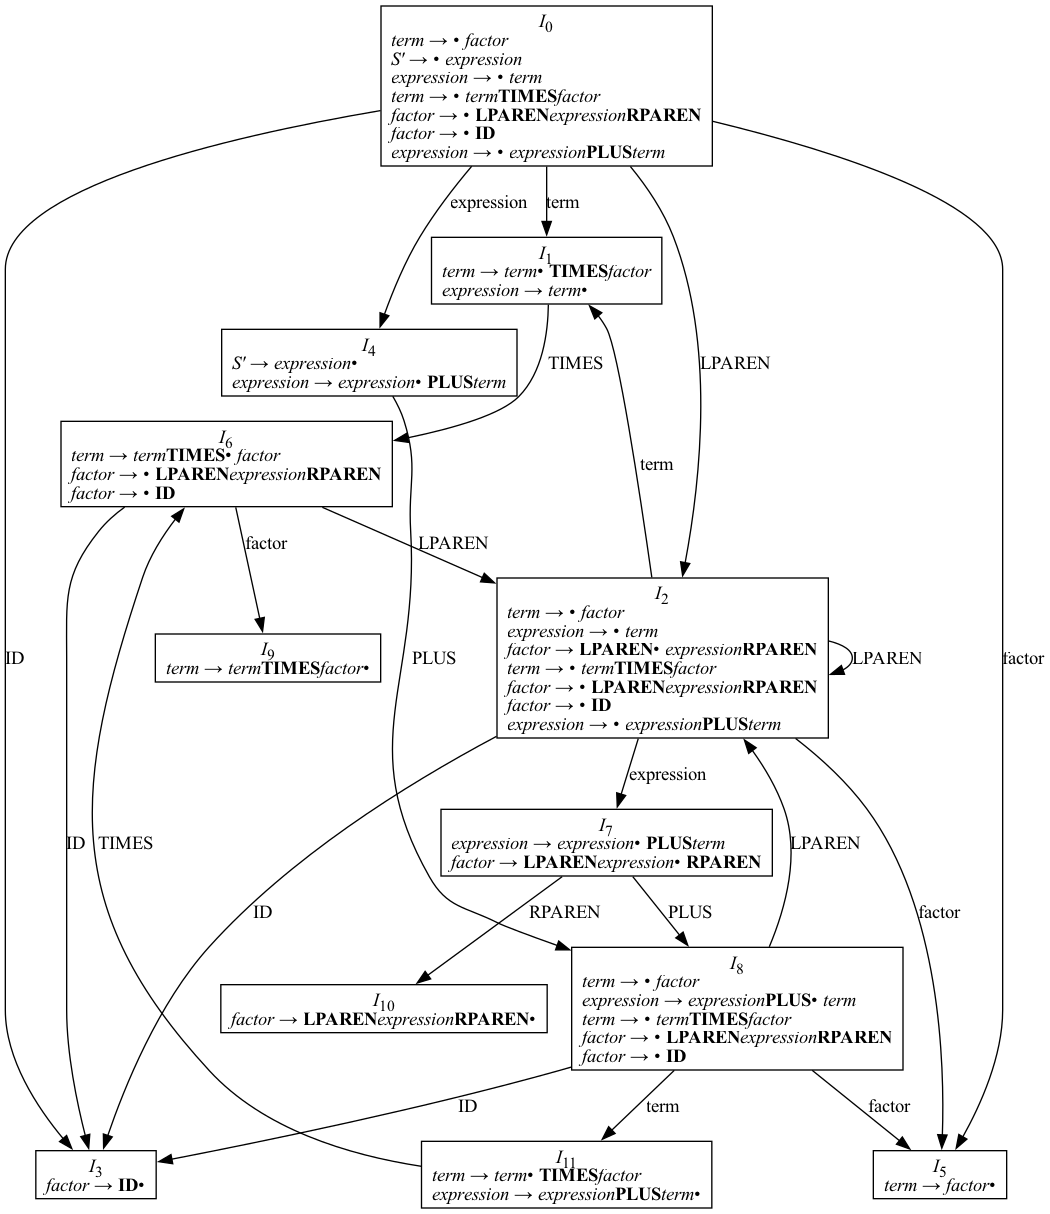
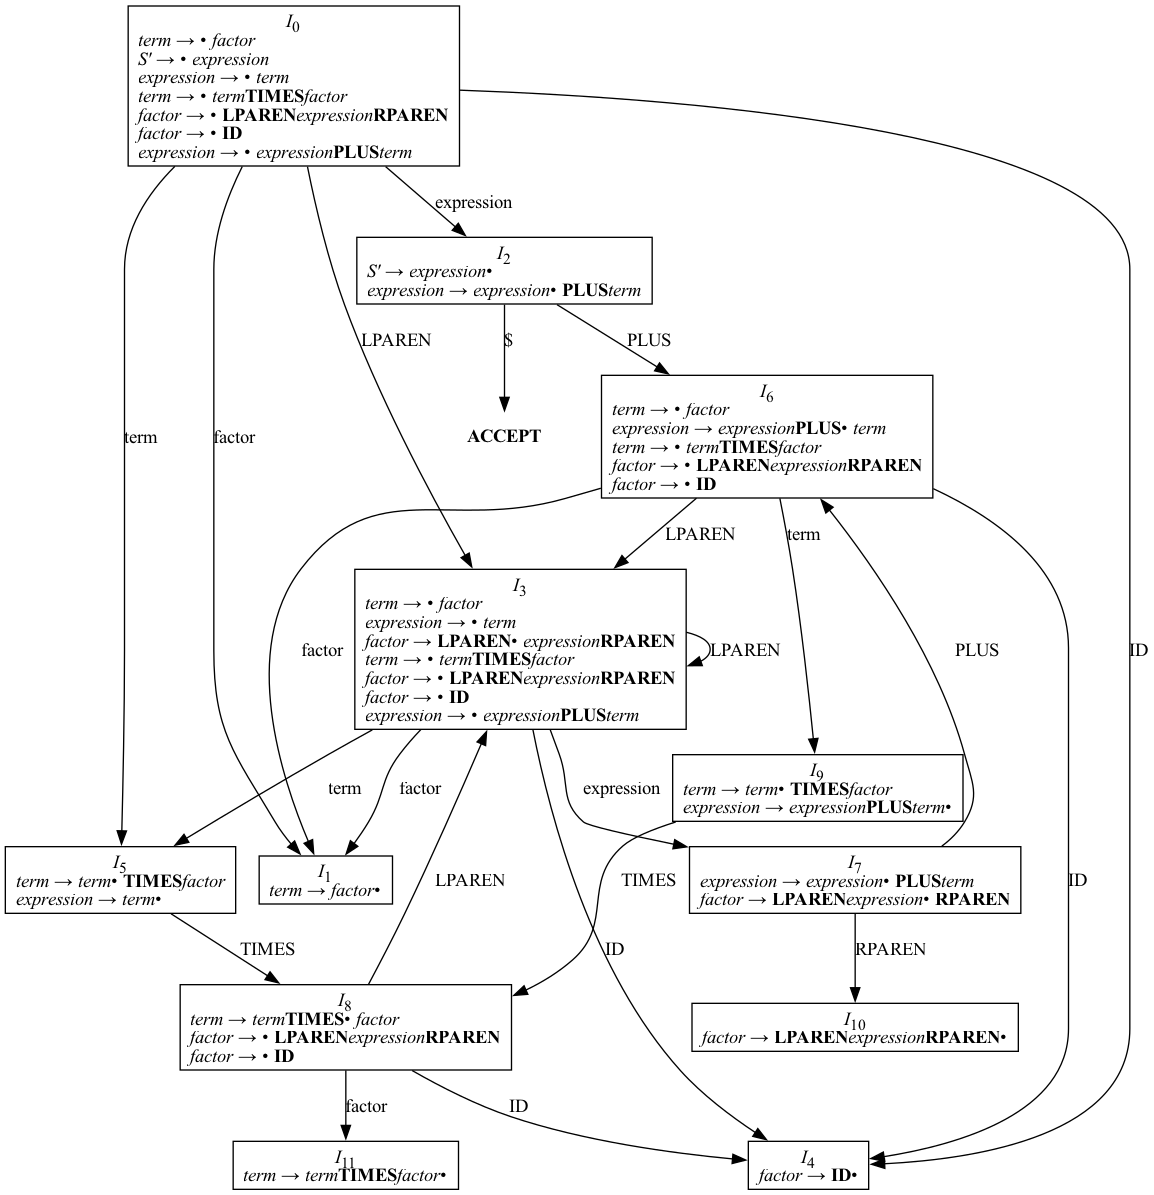
accept state added

diff --git a/src/LR0/Builder.py b/src/LR0/Builder.py
@@ -190,6 +190,7 @@ class Builder:
         for idx, item_set in index_set_dic.items():
             item_html = f'<<I>I</I><SUB>{idx}</SUB><BR/>'
 
+            is_final = False
             for item in item_set:
                 head, body, dot_position = self._decode_item(item)
 
@@ -209,8 +210,16 @@ class Builder:
                     if symbol_idx >= len(body) - 1 and dot_position == len(body):
                         item_html += f'&#8226;'
 
+                if item == (0, 1):
+                    is_final = True
+
+
                 item_html += '<BR ALIGN="LEFT"/>'
             automaton.node(f'I{idx}', f'{item_html}>')
+
+            if is_final:
+                automaton.node('acc', '<<B>ACCEPT</B>>', shape='none')
+                automaton.edge(f'I{idx}', 'acc', label='$')
 
         for node_idx, transitions in lr0.items():
             for symbol, dest_idx in transitions.items():
